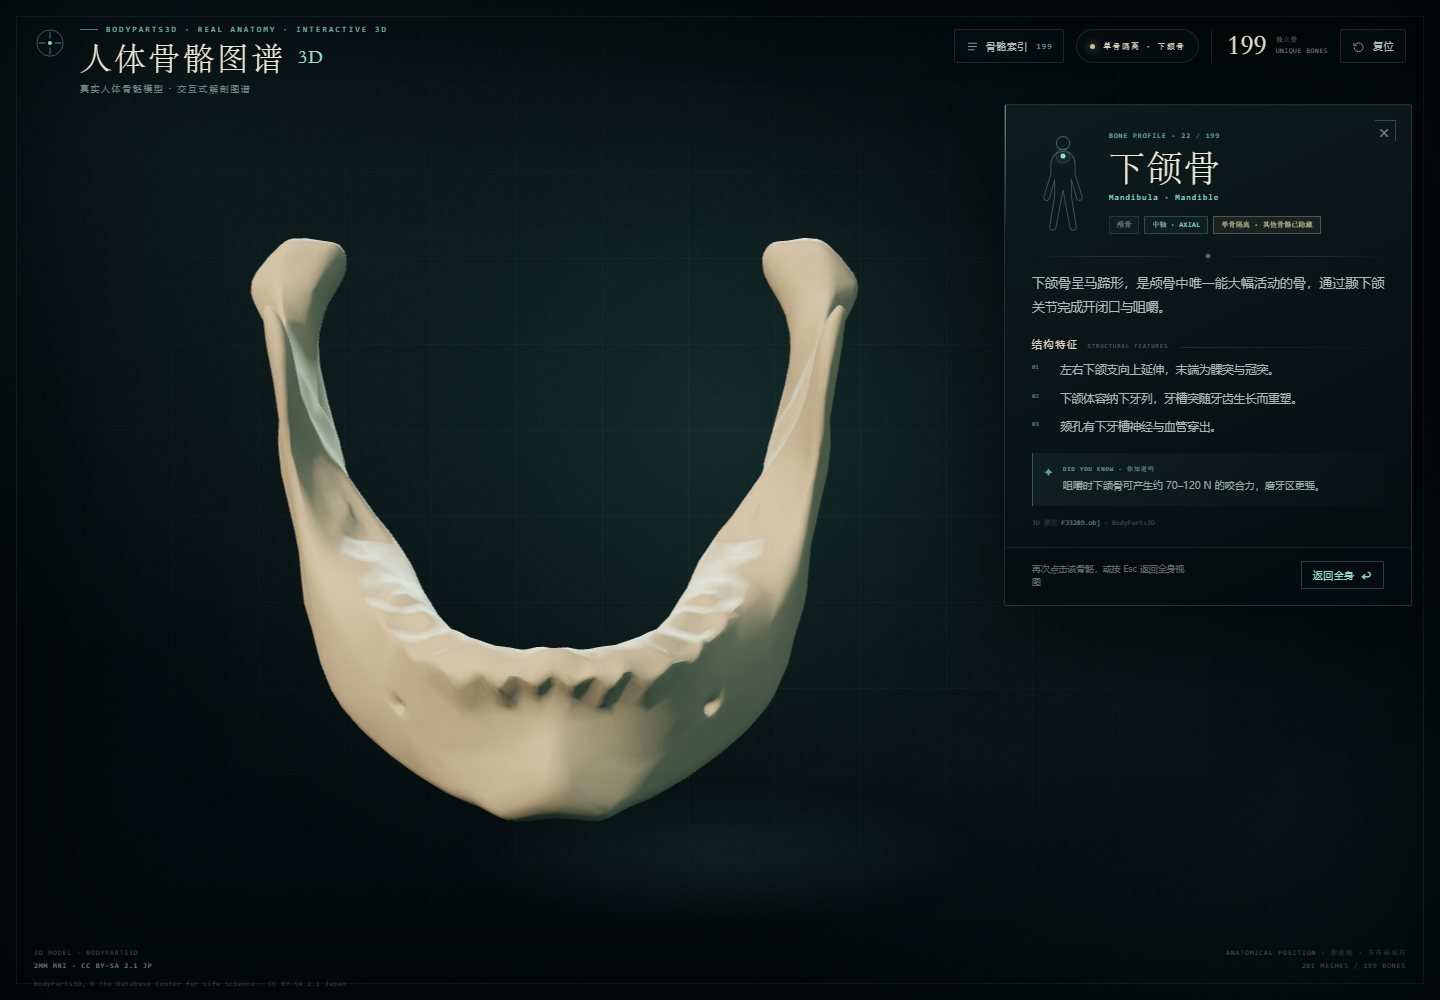
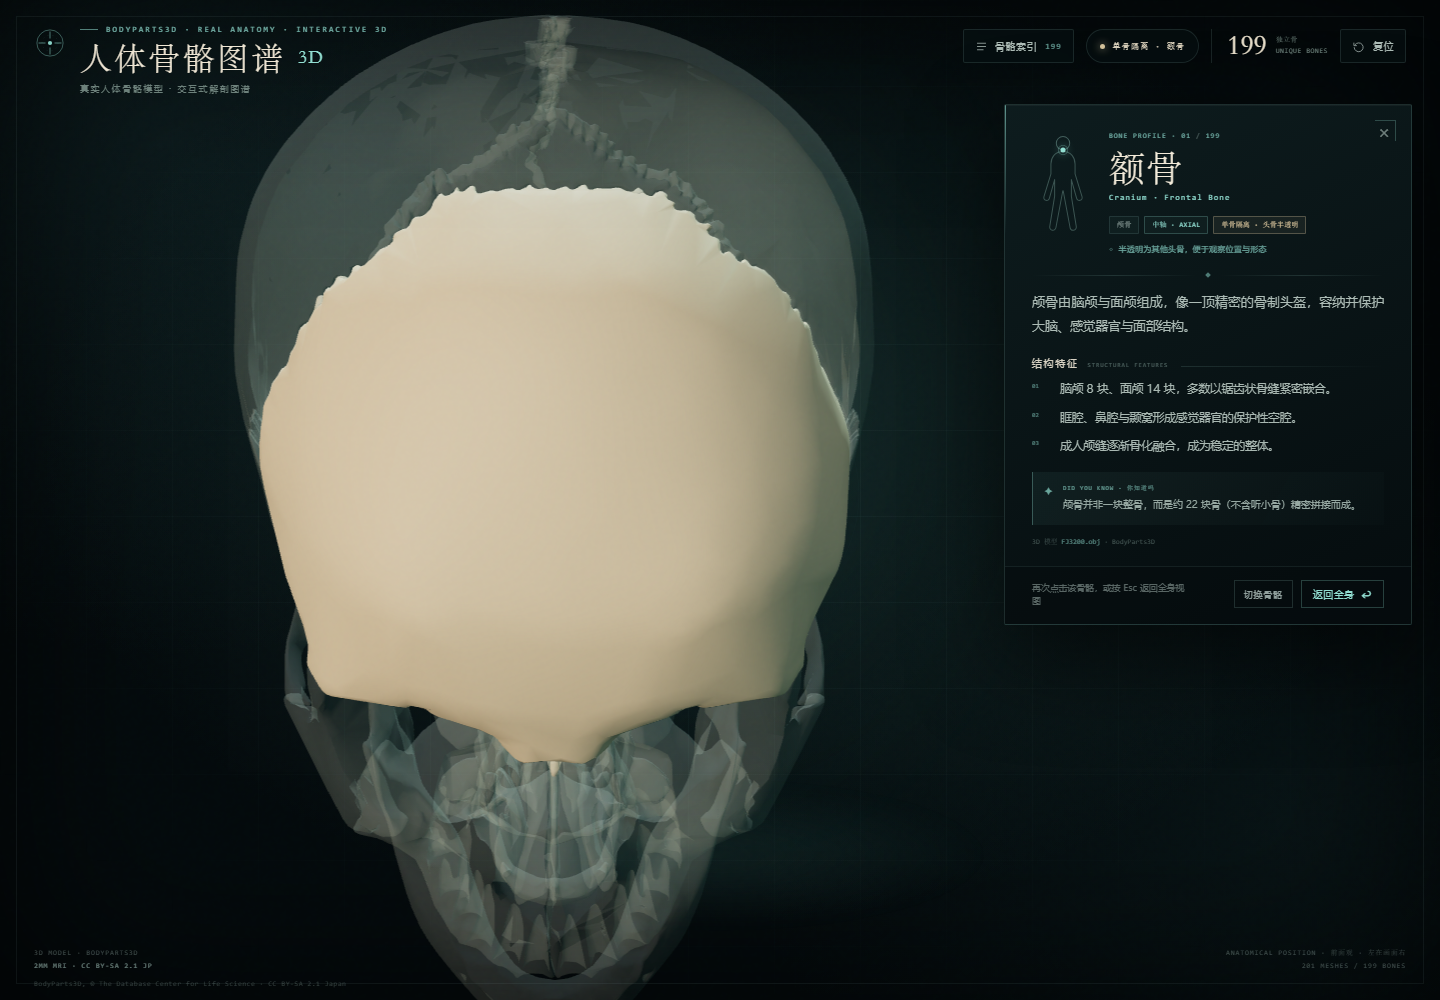
Add semi-transparent skull context

diff --git a/js/app.js b/js/app.js
@@ -433,6 +433,7 @@
     single: new THREE.Color(0xa78a64),
     context: new THREE.Color(0x3b4a44),
     ghost: new THREE.Color(0x33433d),
+    skullGhost: new THREE.Color(0x53675e),
     dim: new THREE.Color(0x25312e)
   };
   const EMISSIVE = {
@@ -471,6 +472,15 @@
       mat.metalness = 0;
       mat.transparent = true;
       mat.opacity = 0.1;
+      mat.depthWrite = false;
+    } else if (mode === "skullGhost") {
+      mat.color.copy(COLORS.skullGhost);
+      mat.emissive.setHex(0x061512);
+      mat.emissiveIntensity = 0.03;
+      mat.roughness = 0.92;
+      mat.metalness = 0;
+      mat.transparent = true;
+      mat.opacity = 0.28;
       mat.depthWrite = false;
     } else if (mode === "dim") {
       mat.color.copy(COLORS.dim);
@@ -529,24 +539,30 @@
 
   function applySelectionMaterials(mode, contextEntries = []) {
     const selected = state.selectedEntry;
+    const selectedIsSkull = !!selected && selected.category === "skull";
     state.isolationMode = mode;
     state.selectedSet = new Set(selected ? selected.meshes : []);
     const contextIds = new Set(contextEntries.map((entry) => entry.id));
     state.contextIds = contextIds;
 
     state.meshes.forEach((mesh) => {
+      const meshEntry = byId.get(mesh.userData.entryId);
       if (state.selectedSet.has(mesh)) {
         mesh.visible = true;
         setMeshState(mesh, mode === "single" ? "single" : mode === "context" ? "isolated" : "selected");
       } else if (mode === "single") {
-        /* 完全单骨隔离：只留下被点击的骨块 */
-        mesh.visible = false;
+        if (selectedIsSkull && meshEntry && meshEntry.category === "skull") {
+          /* 头骨单骨隔离：其余头骨半透明，便于观察位置与形态 */
+          mesh.visible = true;
+          setMeshState(mesh, "skullGhost");
+        } else {
+          mesh.visible = false;
+        }
       } else if (mode === "context") {
         /* 区域参照：本区域用暗色实体，其他区域保留为可点击的淡色轮廓 */
-        const meshEntry = byId.get(mesh.userData.entryId);
         mesh.visible = true;
         if (meshEntry && contextIds.has(meshEntry.id)) {
-          setMeshState(mesh, "context");
+          setMeshState(mesh, selectedIsSkull ? "skullGhost" : "context");
         } else {
           setMeshState(mesh, "ghost");
         }
@@ -983,9 +999,13 @@
     document.body.classList.toggle("single-isolated", mode === "single");
     document.body.classList.toggle("context-mode", mode === "context");
     els.boneIsolate.hidden = !isolated;
-    els.modeHint.hidden = mode !== "context";
+    els.modeHint.hidden = !(mode === "context" || (mode === "single" && isSkull));
     if (mode === "context") {
-      els.modeHint.textContent = "淡色轮廓为其他区域，可直接点击切换";
+      els.modeHint.textContent = isSkull
+        ? "半透明为其他头骨，淡色为身体其他区域，可直接点击切换"
+        : "淡色轮廓为其他区域，可直接点击切换";
+    } else if (mode === "single" && isSkull) {
+      els.modeHint.textContent = "半透明为其他头骨，便于观察位置与形态";
     } else {
       els.modeHint.textContent = "";
     }
@@ -993,13 +1013,13 @@
     if (mode === "context") {
       els.boneIsolate.textContent = isSkull ? "头骨模式 · 双击单骨" : "区域参照 · 双击单骨";
       els.boneIsolate.title = isSkull
-        ? "单击保留头骨参照；双击完全隔离该骨"
+        ? "其他头骨半透明；双击完全隔离该骨"
         : `区域参照：${contextLabelFor(entry)}；双击完全隔离该骨`;
       els.statusText.textContent = isSkull ? `头骨模式 · ${entry.label}` : `区域参照 · ${entry.label}`;
       els.resetNote.textContent = "单击返回 · 双击模型中的该骨进入单骨隔离";
     } else if (mode === "single") {
-      els.boneIsolate.textContent = "单骨隔离 · 其他骨骼已隐藏";
-      els.boneIsolate.title = "仅显示当前骨块";
+      els.boneIsolate.textContent = isSkull ? "单骨隔离 · 头骨半透明" : "单骨隔离 · 其他骨骼已隐藏";
+      els.boneIsolate.title = isSkull ? "其余头骨半透明，便于观察位置与形态" : "仅显示当前骨块";
       els.statusText.textContent = `单骨隔离 · ${entry.label}`;
       els.resetNote.textContent = "再次点击该骨骼，或按 Esc 返回全身视图";
     } else {

diff --git a/简介与使用说明.md b/简介与使用说明.md
@@ -4,7 +4,7 @@
 
 **人体骨骼图谱 3D** 是一个面向解剖学习、科普展示和自主观察的交互式网页程序。它以 **BodyParts3D / Anatomography** 真实人体 MRI 重建数据为基础，将 **201 个骨骼模型部件** 压缩内嵌到网页中，无需安装软件、无需本地服务器，双击 `index.html` 即可在浏览器中打开。
 
-程序把全身骨骼做成可旋转、可缩放、可检索的三维模型。单击骨骼可进入“区域参照”：本区域以暗色实体显示，其他区域保留为淡色轮廓，可直接点击切换到其他区域；双击骨骼则进入“完全单骨隔离”，只显示当前骨块，适合观察单块骨的形态。方向键可以平移虚拟摄像机，方便沿股骨、胫骨等长骨逐段观察。
+程序把全身骨骼做成可旋转、可缩放、可检索的三维模型。单击骨骼可进入“区域参照”：本区域以暗色实体显示，其他区域保留为淡色轮廓，可直接点击切换到其他区域；双击骨骼则进入“单骨隔离”。头骨单骨隔离时，其余头骨以半透明轮廓保留，便于观察该骨在头骨中的位置与形态。方向键可以平移虚拟摄像机，方便沿股骨、胫骨等长骨逐段观察。
 
 > 一句话简介：一个基于真实人体数据的、可直接在浏览器中打开的交互式 3D 骨骼图谱。
 
@@ -13,7 +13,7 @@
 - **真实模型**：BodyParts3D 真实人体 MRI 重建，201 个骨骼模型部件；
 - **直接打开**：所有模型已内嵌，双击 `index.html` 即可运行，不需要服务器；
 - **区域参照**：单击骨骼后本区域为暗色实体，其他区域为淡色轮廓，可直接点击切换，选中骨高亮；
-- **单骨隔离**：双击任意骨骼，只显示该骨；
+- **单骨隔离**：双击任意骨骼，只显示该骨；头骨会保留其余头骨的半透明轮廓；
 - **长骨观察**：方向键平移镜头，移动速度随缩放距离自动调整；
 - **快速检索**：199 条骨骼索引，支持中文名、英文名、分区筛选和深链接；
 - **桌面与手机适配**：手机端骨骼档案使用底部抽屉，索引使用全屏抽屉。
@@ -69,7 +69,7 @@
   - 例如单击左股骨：左髋骨、左股骨、左髌骨、左胫骨、左腓骨和左脚为暗色参照，其余骨骼为淡色轮廓；
   - 例如单击胸骨：胸廓和胸骨为暗色参照。
 - **切换其他区域**：直接点击淡色轮廓，或点击面板底部的 **“切换骨骼”** 打开索引；选中其他骨骼后会直接进入新区域，不会先回到全身。
-- **双击骨骼**：进入 **完全单骨隔离**，只显示被双击的那一块骨。
+- **双击骨骼**：进入 **单骨隔离**。非头骨区域只显示该骨；头骨会保留其余头骨的半透明轮廓，便于观察当前位置与形态。
 - **再次单击同一骨骼 / 按 `Esc`**：回到全身视图。
 
 > 单击和双击通过点击间隔区分，单击会有约 260ms 的确认延迟；双击请快速连续点击两次。
@@ -117,9 +117,9 @@
 |---|---|---|
 | 全身视图 | 初始状态 / 复位 | 全部 201 个模型部件 |
 | 区域参照 | 单击骨骼 | 本区域为暗色实体，其他区域为淡色可点击轮廓，选中骨高亮 |
-| 单骨隔离 | 双击骨骼 | 只显示当前 1 个骨块 |
+| 单骨隔离 | 双击骨骼 | 只显示当前骨块；头骨保留其余头骨的半透明轮廓 |
 
-![单骨隔离：下颌骨](preview-3d-skull-single.png)
+![单骨隔离：额骨，其余头骨半透明](preview-3d-skull-single.png)
 
 ## 六、常见问题
 

diff --git a/README.md b/README.md
@@ -12,9 +12,9 @@
 
 ![区域参照：胸骨与胸廓；淡色为其他区域](preview-3d-sternum.png)
 
-![头骨模式：头骨参照，高亮额骨；淡色为其他区域](preview-3d-skull.png)
+![头骨模式：其他头骨半透明，高亮额骨](preview-3d-skull.png)
 
-![单骨隔离：双击下颌骨后只显示该骨](preview-3d-skull-single.png)
+![单骨隔离：额骨，其余头骨半透明](preview-3d-skull-single.png)
 
 ![骨骼索引、分类与搜索](preview-3d-index.png)
 
@@ -67,7 +67,7 @@
 | 右键拖拽 / Shift + 拖拽 | 平移视角 |
 | 滚轮 / 双指捏合 | 缩放 |
 | 单击任意骨骼 | **区域参照模式**：本区域显示为暗色实体，其他区域保留为淡色可点击轮廓，点击的骨块高亮 |
-| 双击任意骨骼 | **单骨隔离**：只显示被双击的那一块骨，其余 200 个模型部件全部隐藏 |
+| 双击任意骨骼 | **单骨隔离**：只保留被双击的那一块骨；若为头骨，其余头骨以半透明保留，便于观察位置与形态 |
 | 面板“切换骨骼” | 打开骨骼索引，直接切换到其他区域，不返回全身视图 |
 | 方向键 `↑` `↓` `←` `→` | 平移虚拟摄像机与观察目标，可沿长骨上下左右移动视角；移动速度随镜头距离自动缩放 |
 | 单骨隔离后再次单击 / 按 `Esc` | 恢复全身视图 |
@@ -100,14 +100,14 @@
 | 肩带 / 上臂 / 前臂 / 腕骨 / 掌骨 / 指骨 | **同侧上肢 + 同侧手部（32 个部件）** |
 | 髋骨 / 股骨 / 髌骨 / 胫骨 / 腓骨 / 跗骨 / 跖骨 / 趾骨 | **同侧下肢（5 块，含髋骨）+ 同侧足部（31 个部件）** |
 
-双击后不受上表限制，只显示当前骨块。
+双击后不受上表限制：只保留当前骨块；头骨单骨隔离时，其余头骨以半透明轮廓保留，其他身体骨骼仍隐藏。
 
 ## 相比参考版本的改进
 
 - 不再使用手绘 SVG，替换为 **BodyParts3D 真实 3D 骨骼模型**。
 - 增加 **镜头聚焦、再次点击复位、点击空白复位、Esc 复位**。
 - 全身统一为 **区域参照** 模式：本区域为暗色实体，其他区域为淡色可点击轮廓，可直接切换而无需回到全身。
-- **双击任意骨骼** 可进入 **完全单骨隔离**，适合观察单块骨的形态与特征。
+- **双击任意骨骼** 可进入 **单骨隔离**，适合观察单块骨的形态与特征；头骨单骨隔离会保留其他头骨的半透明轮廓，便于定位。
 - **方向键平移摄像机**：上下左右移动观察位置，速度随镜头距离自动缩放，便于逐段观察股骨、胫骨等长骨。
 - 重做界面：深色解剖图谱视觉、暖白骨骼材质、冷暖轮廓光。
 - 新增 **199 条可搜索骨骼索引**、分区筛选、结果计数与滚动定位。
